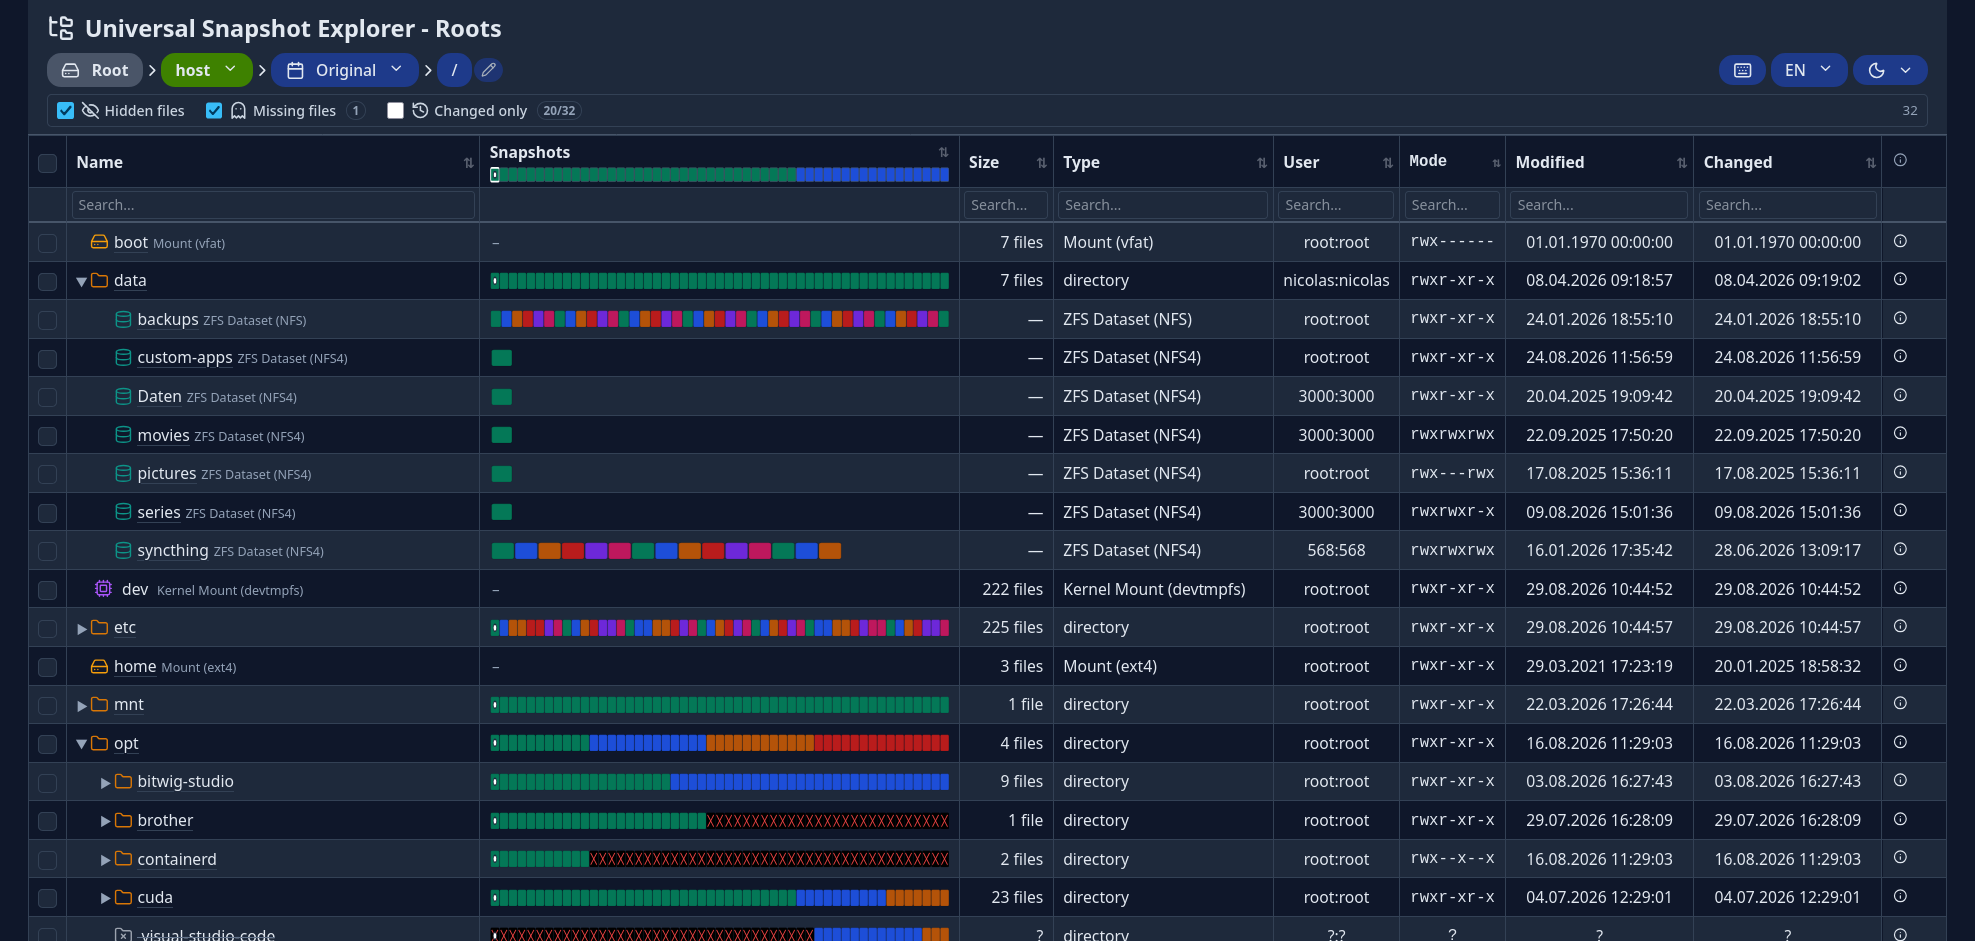
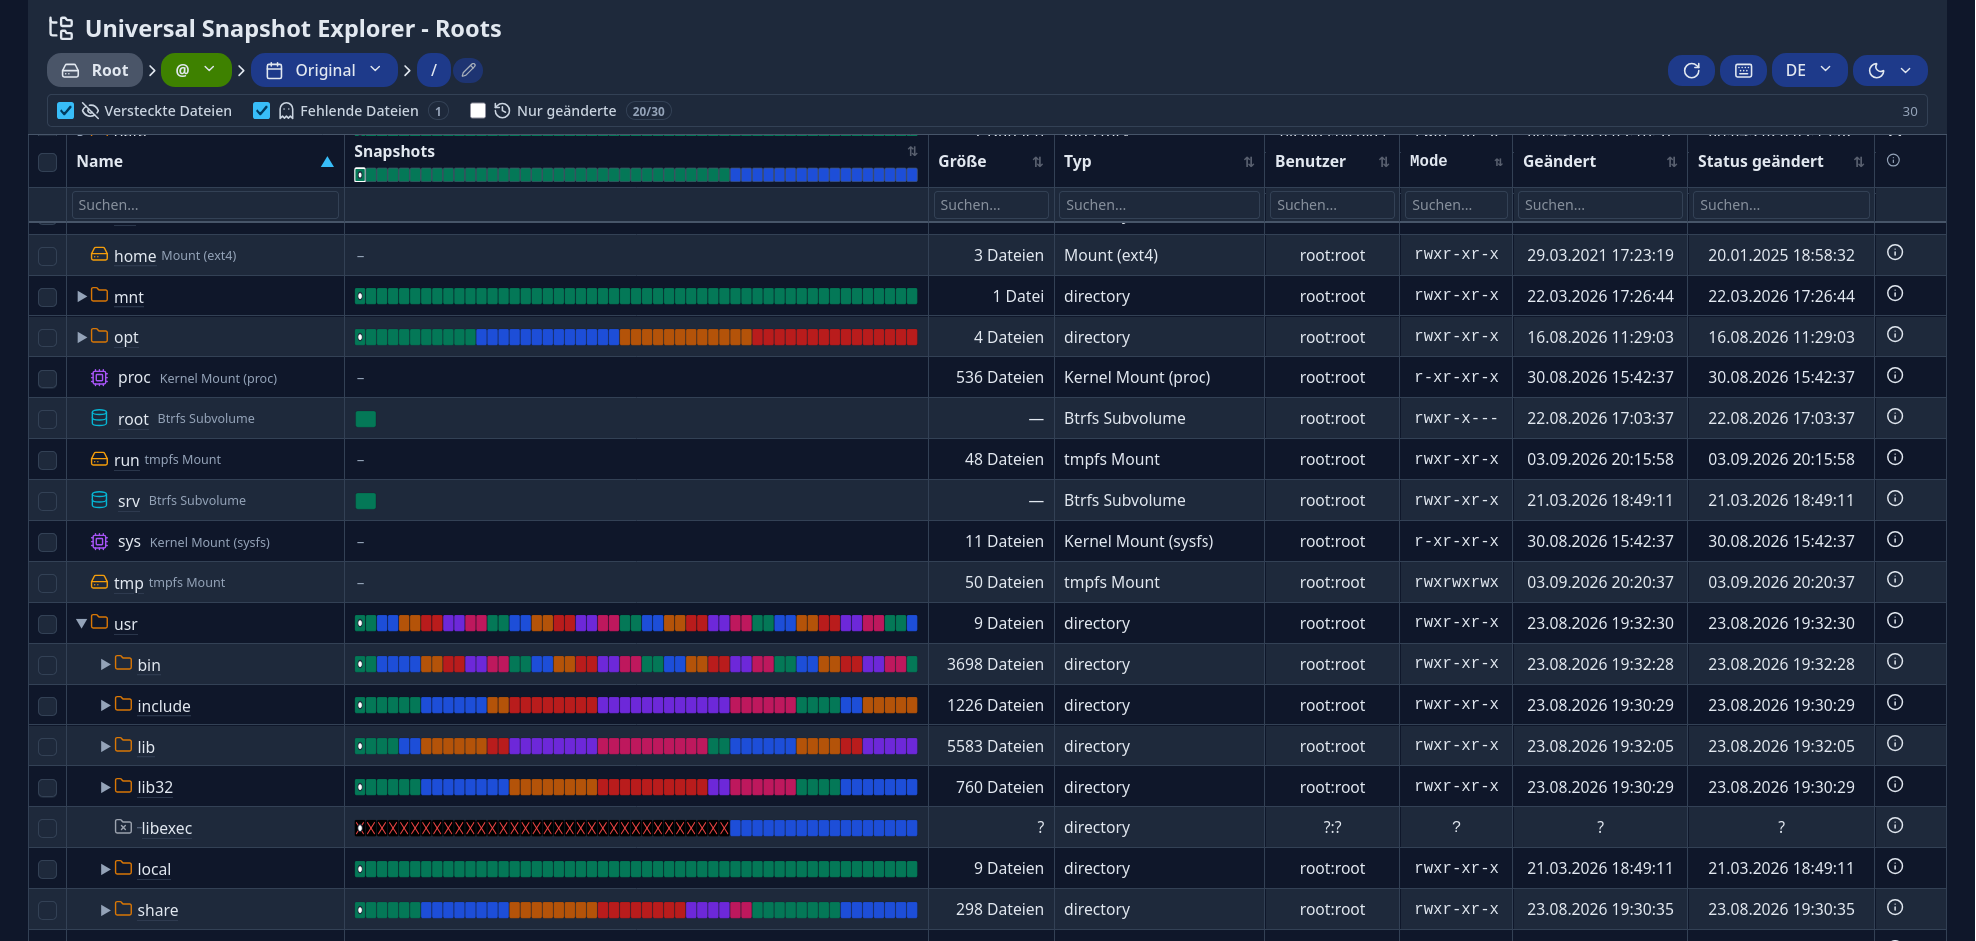
docs(releases): document keyboard focus sanitization fix in v2.1.0

diff --git a/RELEASES.md b/RELEASES.md
@@ -52,6 +52,8 @@ This project adheres to [Semantic Versioning (SemVer)](https://semver.org/).
   * Removed inline HTML whitespace gap between folder spacers and Lucide icons for pixel-perfect vertical alignment.
 * **Sub-Dataset Snapshot Routing & Inode Neutrality:**
   * Fixed detail view routing for sub-datasets and ignored cross-mount `st_ino` variations during snapshot comparison.
+* **Keyboard Focus Sanitization:**
+  * Added `sanitizeFocus()` to `KeyboardNavigator` to gracefully move focus to the parent row when collapsing folders or groups in tree views.
 * **Typeahead Segment Matching:**
   * Fixed prefix-match dropping when navigating hierarchical sub-dataset paths.
 
